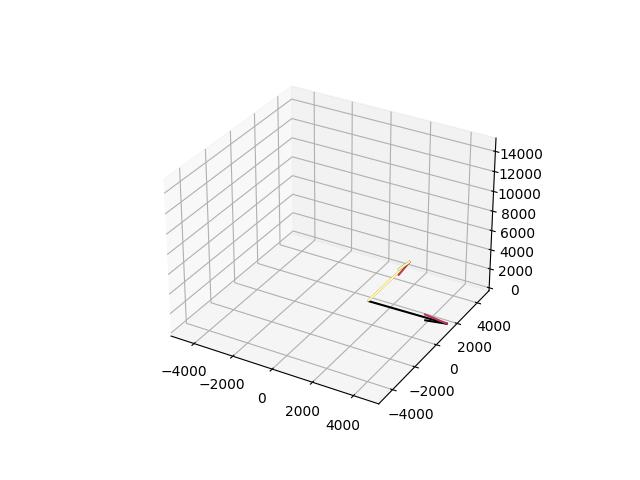
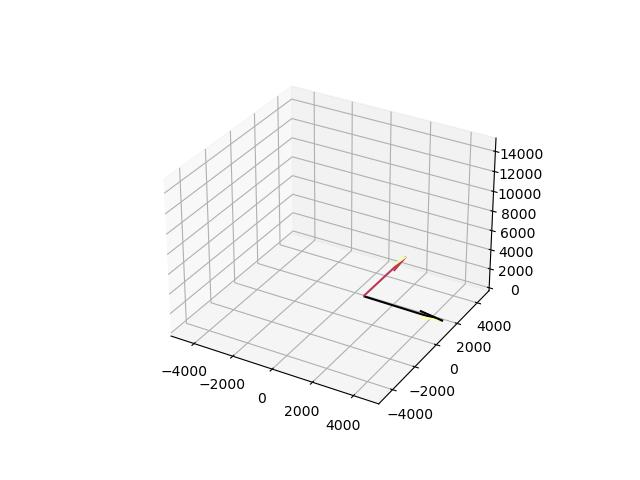
Added a bunch of stuff

diff --git a/plotter2D.py b/plotter2D.py
@@ -1,29 +1,15 @@
 
 import numpy as np
-import matplotlib.pyplot as plt
-from matplotlib.offsetbox import OffsetImage, AnnotationBbox
-from matplotlib.cbook import get_sample_data
-import cv2
+from PIL import Image
 
-def GPS_Plotter(state: np.array, image):
-    fig, ax = plt.subplots()
-    height, width = image.shape[:2]
-    center = (width/2, height/2)
+def GPS_plotter(state: np.array, plane, background):
+    background_temp = background.copy()
+    width_b, height_b = background_temp.size
+    width_p, height_p = plane.size
     
-    rotate_matrix = cv2.getRotationMatrix2D(center=center, angle=-state[11], scale=1)
-    rotated_image = cv2.warpAffine(src=image, M=rotate_matrix, dsize=(width, height))
+    x_pos = int(width_b / 2 + state[3] / 10 - width_p/2)
+    y_pos = int(height_b / 2 - state[4] / 10 - width_p/2)
+    plane_rotated = plane.rotate(state[11], expand = 1)
+    background_temp.paste(plane_rotated, (x_pos,y_pos), plane_rotated)
     
-    im = OffsetImage(rotated_image, zoom=0.05)
-    
-    ab = AnnotationBbox(im, (state[3], state[4]), xycoords='data', frameon=False)
-    ax.add_artist(ab)
-    ax.set_xlim(-5000.0, 5000.0)
-    ax.set_ylim(-5000.0, 5000.0)
-    title = "Altitude: "
-    title = title + str(state[5])
-    plt.title(title)
-    
-    plt.savefig('images/GPSPlot.jpg')
-    plt.close(fig)
-    
-    
+    return background_temp

diff --git a/plotter3D.py b/plotter3D.py
@@ -1,4 +1,3 @@
-
 import numpy as np
 from mpl_toolkits.mplot3d import axes3d
 from matplotlib.colors import Normalize
@@ -6,9 +5,7 @@ import matplotlib.pyplot as plt
 import matplotlib.cm as cm
 import matplotlib
 
-def vector_3D_plotter(state: np.array):
-    fig = plt.figure()
-    ax = fig.add_subplot(projection='3d')
+def vector_3D_plotter(state: np.array, fig):
     
     colors = np.array([0, 0.5, 1])
     norm = Normalize()
@@ -24,12 +21,12 @@ def vector_3D_plotter(state: np.array):
     
     colormap = cm.inferno
     
-    ax.quiver(x, y, z, u, v, w, color=colormap(norm(colors)), length=4000, normalize=True)
-    ax.set_xlim(-5000.0, 5000.0)
-    ax.set_ylim(-5000.0, 5000.0)
-    ax.set_zlim(0, 15000.0)
+    ax3D = fig.add_subplot(projection='3d')
+    ax3D.quiver(x, y, z, u, v, w, color=colormap(norm(colors)), length=4000, normalize=True)
+    ax3D.set_xlim(-5000.0, 5000.0)
+    ax3D.set_ylim(-5000.0, 5000.0)
+    ax3D.set_zlim(0, 15000.0)
     
     plt.savefig('images/vector3DPlot.jpg')
-    plt.close(fig)
-    
+    plt.clf()
     
